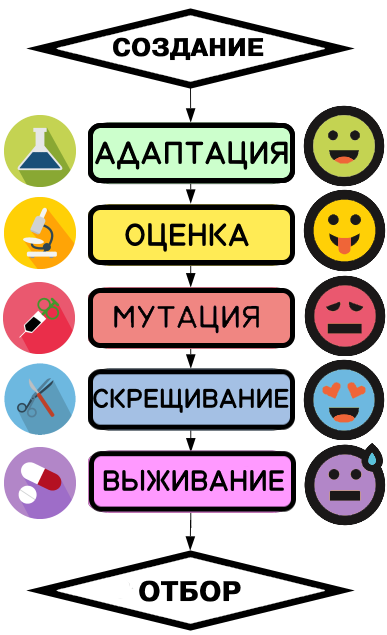
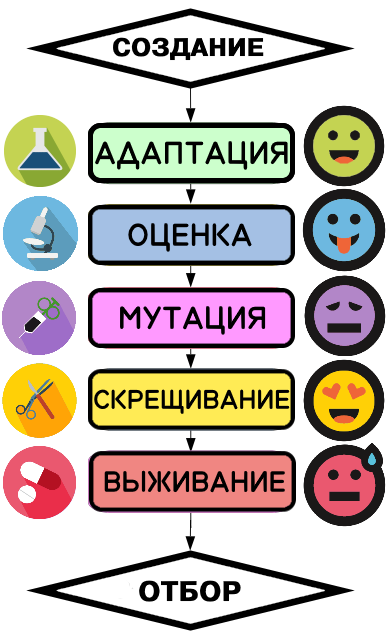
+ design

Changed region(s): [[0.0, 0.2992, 0.9922, 0.8378]]

diff --git a/src/app/start/faq/faq.component.ts b/src/app/start/faq/faq.component.ts
@@ -18,28 +18,28 @@ export class FaqComponent implements OnInit {
     number: 2,
     name: 'СИНТЕЗИРОВАНИЕ',
     description: 'Наш мемасик уже совсем большой. В этом состоянии он входит в больший мир и ждет когда его оценят по достоинству. Для этого у мема появляются 3 характеристики - ЛОЛ, ОМГ, ХММ. Чтобы оценить мем используйте токен оценки - микроскоп.',
-    color: '#FCD006',
+    color: '#75B2E4',
     idHeading: 'headingStep2',
     idCollapse: 'collapseStep2',
   }, {
     number: 3,
     name: 'МУТИРОВАНИЕ',
     description: 'Пока мем находится в этом состоянии, вы можете оставлять комментарии под ним, используя токен мутаген, за ваши мутации могут голосвать другие меметики. Тем самым увеличивая свой днк и хромосомы мема. ',
-    color: '#D85566',
+    color: '#B985D1',
     idHeading: 'headingStep5',
     idCollapse: 'collapseStep5',
   }, {
     number: 4,
     name: 'РАЗМНОЖЕНИЕ',
     description: 'Кажется мемчик хочет любви, вы можете создать новый мем на основе дргуих в этом состоянии. Чтобы скрещивать мемы, используйте токен кроссовер. Если другим меметикам понравится ваше скрещивание у вас будет новый мем, а так-же родственная связь с ним',
-    color: '#75B2E4',
+    color: '#FCD006',
     idHeading: 'headingStep4',
     idCollapse: 'collapseStep4',
   }, {
     number: 5,
     name: 'ВЫЖИВАНИЕ',
     description: 'Это последний этап эволюции. Мем находится на грани вымирания, шанс его выживания зависит от кол-во накопленных хромосом. Если мем был и правда хорош, он попадет в 50% счастливчиков и выживет. С помощью антибиотика вы можете гарантировать этот шанс',
-    color: '#B985D1',
+    color: '#D85566',
     idHeading: 'headingStep3',
     idCollapse: 'collapseStep3',
   }, {

diff --git a/src/app/battle/battle.component.html b/src/app/battle/battle.component.html
@@ -1,4 +1,6 @@
-<div class="super-main-title">БИТВА МЕМОВ</div>
+<div class="super-main-logo animated slideInDown">
+  <img [src]="'assets/images/battle-logo.png'">
+</div>
 
 <div *ngIf="isLoad" class="flex-center-absolute">
   <app-spinner></app-spinner>
@@ -8,11 +10,11 @@
 
   <div class="row">
     <div class="col-md-12 text-center">
-      <div class="battle-table">
+      <div class="battle-table arena">
         <div class="button-big" (click)="toArena()">
         <div class="button-biп-content">
           <span>АРЕНА</span>
-          <img src="assets/images/icon/battle.png">
+          <img src="assets/images/icon/arena.png">
         </div>
         <p>(всего битв: {{battlesCount}})</p>
       </div>
@@ -39,7 +41,7 @@
         <div class="button-big" (click)="toRating()">
         <div class="button-biп-content">
           <span>РЕЙТИНГ</span>
-          <img src="assets/images/icon/battle.png">
+          <img src="assets/images/icon/rating.png">
         </div>
         <p>(всего участников: {{membersCount}})</p>
       </div>
@@ -50,7 +52,7 @@
   <div class="row">
     <div class="col-md-4">
       <div class="battle-table button-picker" (click)="toMemes()">
-        <img src="assets/images/icon/battle.png">
+        <img src="assets/images/icon/1.png">
         <p>ОСОБИ</p>
       </div>
     </div>
@@ -62,7 +64,7 @@
     </div>
     <div class="col-md-4">
       <div class="battle-table button-picker" (click)="toInfo()">
-        <img src="assets/images/icon/battle.png">
+        <img src="assets/images/icon/quest.png">
         <p>СПРАВКА</p>
       </div>
     </div>

diff --git a/src/app/control/control-scope/control-scope.component.html b/src/app/control/control-scope/control-scope.component.html
@@ -6,13 +6,25 @@
       <img src="assets/images/icon/world.png">
       <p>эволюция</p>
     </div>
-    <div class="scope-cell" (click)="creating()">
-      <img src="assets/images/icon/cell.png">
-      <p>создание</p>
+    <div class="scope-cell" (click)="battle()">
+      <img src="assets/images/icon/battle.png">
+      <p>битвы</p>
     </div>
     <div class="scope-cell" (click)="shop()">
       <img src="assets/images/icon/shop.png">
       <p>магазин</p>
+    </div>
+    <div class="scope-cell" (click)="memotypes()">
+      <img src="assets/images/icon/memotype.png">
+      <p>мемотипы</p>
+    </div>
+    <div class="scope-cell" (click)="mining()">
+      <img src="assets/images/icon/mining.png">
+      <p>майнинг</p>
+    </div>
+    <div class="scope-cell" (click)="creating()">
+      <img src="assets/images/icon/cell.png">
+      <p>создание</p>
     </div>
     <div class="scope-cell" (click)="rating()">
       <img src="assets/images/icon/rocket.png">
@@ -21,18 +33,6 @@
     <div class="scope-cell" (click)="library()">
       <img src="assets/images/icon/books.png">
       <p>библиотека</p>
-    </div>
-    <div class="scope-cell" (click)="battle()">
-      <img src="assets/images/icon/battle.png">
-      <p>битвы</p>
-    </div>
-    <div class="scope-cell" (click)="memotypes()">
-      <img src="assets/images/icon/3.png">
-      <p>мемотипы</p>
-    </div>
-    <div class="scope-cell" (click)="mining()">
-      <img src="assets/images/icon/mining.png">
-      <p>майнинг</p>
     </div>
   </div>
 

diff --git a/src/app/shop/shop.component.ts b/src/app/shop/shop.component.ts
@@ -24,7 +24,7 @@ export class ShopComponent {
     txt: 'Собери их всех!',
     val: 'МЕМОТИПЫ',
     url: '/memotypes',
-    img: '/assets/images/icon/cell.png',
+    img: '/assets/images/icon/memotype.png',
   }, {
     txt: 'Купи и получи пособие прямо сейчас!',
     val: 'ПОСОБИЕ',
@@ -34,7 +34,7 @@ export class ShopComponent {
     txt: 'Получи новые возможности в системе',
     val: 'ГРАНТЫ*',
     url: '/grants',
-    img: '/assets/images/icon/books.png',
+    img: '/assets/images/icon/grants.png',
   }, {
     txt: 'Повысь эффективность своего майнинга',
     val: 'КИРКИ*',
@@ -49,7 +49,7 @@ export class ShopComponent {
     txt: 'Выбери себе любой ник прямо сейчас (от 3 до 16 символов)',
     val: 'НИКНЕЙМ',
     url: '/nick',
-    img: '/assets/images/tokens/tmp.png',
+    img: '/assets/images/icon/nick_edit.png',
   }, {
     txt: 'Опубликуй свой мем в наших соц.сетях',
     val: 'ПУБЛИКАЦИЯ',

diff --git a/src/assets/scss/style.scss b/src/assets/scss/style.scss
@@ -242,3 +242,16 @@
   }
 }
 
+.super-main-logo {
+  margin-top: 10px;
+  text-align: center;
+  img {
+    width: 350px;
+  }
+  @media(max-width: 767px) {
+    img {
+      width: 300px;
+    }
+  }
+}
+

diff --git a/src/app/memotype/memotype-view/memotype-view.component.scss b/src/app/memotype/memotype-view/memotype-view.component.scss
@@ -17,7 +17,7 @@
     margin-right: auto;
     margin-left: auto;
     text-align: center;
-    margin-top: 30px;
+    margin-top: 15px;
   }
   @media(max-width: 767px) {
     div {

diff --git a/src/app/consts/PriceConst.ts b/src/app/consts/PriceConst.ts
@@ -1,5 +1,5 @@
 export enum PriceConst {
-  COOKIE = 10,
+  COOKIE = 5 ,
   ALLOWANCE = 1000,
   RESSURECTION = 150 ,
   NICK = 500,

diff --git a/src/app/battle/battle.component.scss b/src/app/battle/battle.component.scss
@@ -6,3 +6,7 @@
   border-radius: 50px;
 }
 
+.arena {
+  margin-top: 5px !important;
+}
+
